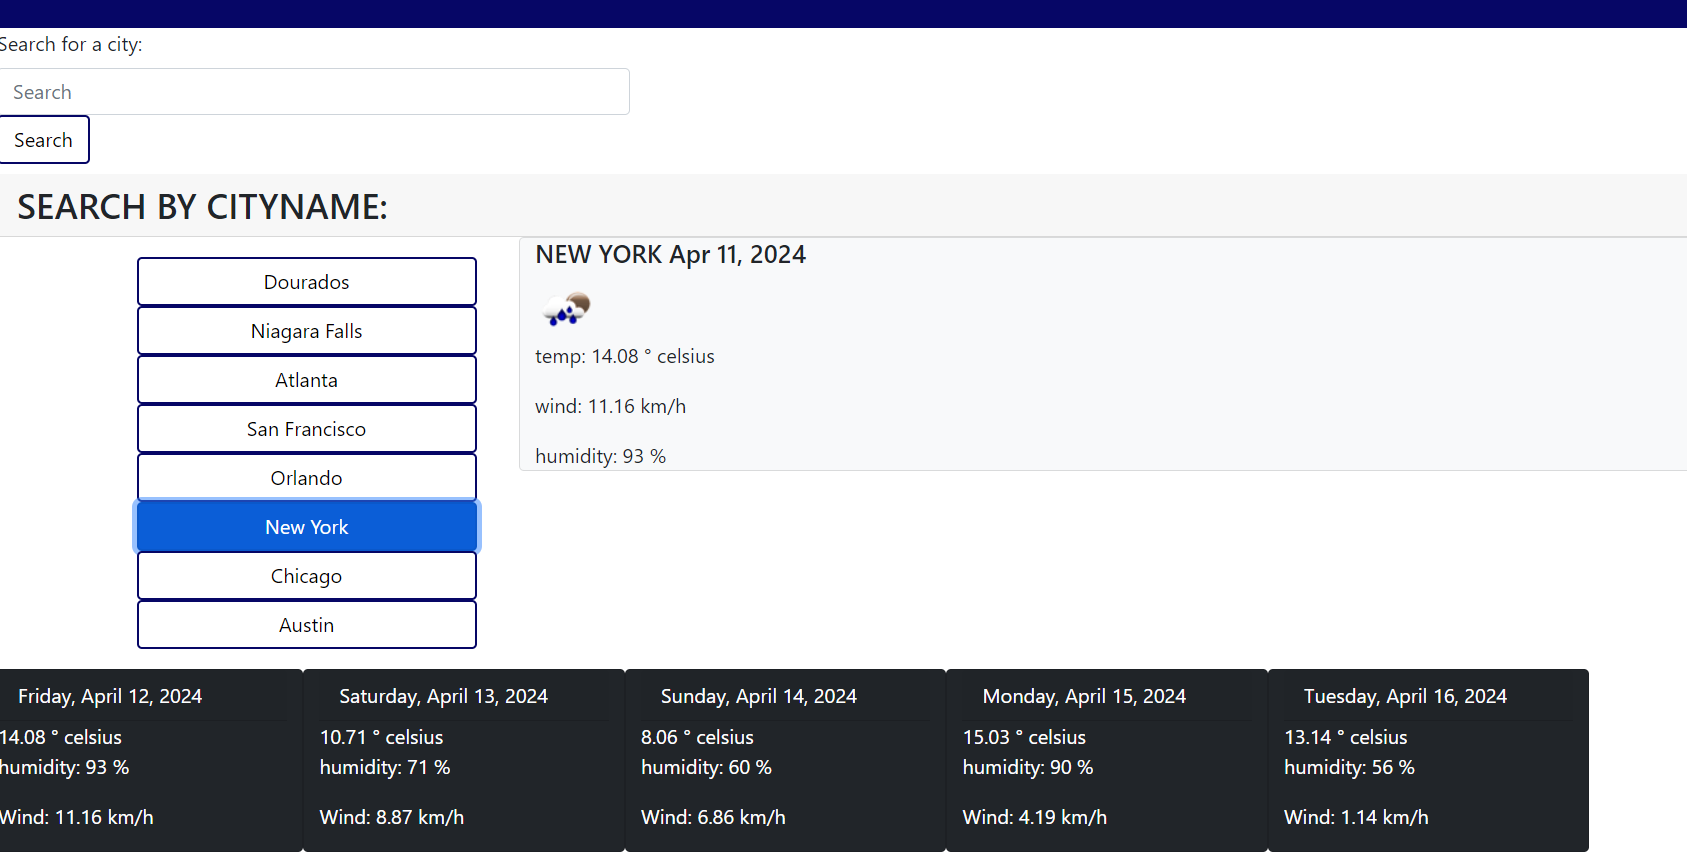
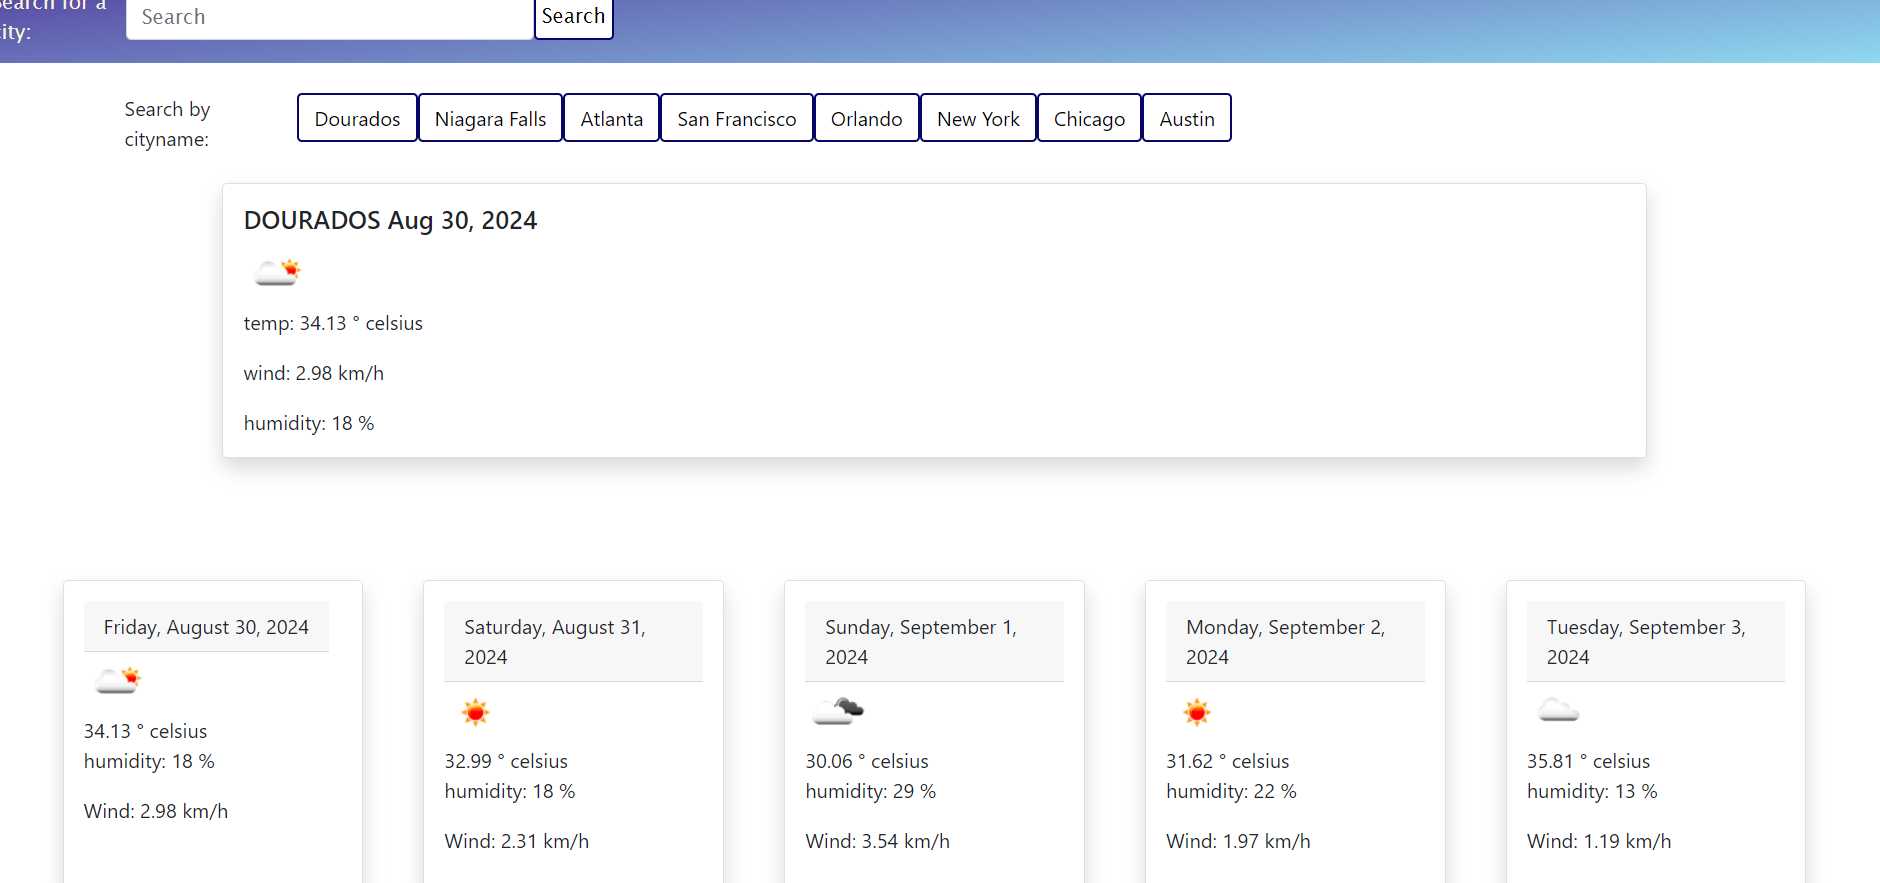
adjustments

diff --git a/index.html b/index.html
@@ -3,7 +3,7 @@
 <head>
     <meta charset="UTF-8">
     <meta name="viewport" content="width=device-width, initial-scale=1.0">
-    <title>Farias Weather</title>
+    <title>MyWeather</title>
     <link rel="stylesheet" href="https://code.jquery.com/ui/1.12.1/themes/base/jquery-ui.css" />
     <link href="https://fonts.googleapis.com/css?family=IBM+Plex+Sans:400,400i,700&display=swap" rel="stylesheet">
     <link href="https://cdn.jsdelivr.net/npm/bootstrap@5.1.3/dist/css/bootstrap.min.css" rel="stylesheet" integrity="sha384-1BmE4kWBq78iYhFldvKuhfTAU6auU8tT94WrHftjDbrCEXSU1oBoqyl2QvZ6jIW3" crossorigin="anonymous">
@@ -15,35 +15,41 @@
   ></script>
 
 </head>
-<header class=".bg-gradient">FARIAS Weather</header>
-
 <body>
- 
-        Search for a city:
-    <form class="form col-4 my-2" id="form" >
-        <input class="form-control mr-sm-2" type="search" placeholder="Search" aria-label="Search" id ="cityname">
-        <button class="btn btn-primary" type="submit" >Search</button>
-    </form>
-    <h3 class="card-header text-uppercase">Search by cityname:</h3>
-<div class="container hero"> 
-    <div id="city-btn" class="card-body list-group col-3" style="max-width: 18rem;">
-        <button citybtn="dourados,br" class="btn btn-primary">Dourados</button>
-        <button citybtn="niagara falls,ca" class="btn btn-primary">Niagara Falls</button>
-        <button citybtn="atlanta,us" class="btn btn-primary">Atlanta</button>
-        <button citybtn="san francisco,us" class="btn btn-primary">San Francisco</button>
-        <button citybtn="orlando,us" class="btn btn-primary">Orlando</button>
-        <button citybtn="new york,us" class="btn btn-primary">New York</button>
-        <button citybtn="chicago,us" class="btn btn-primary">Chicago</button>
-        <button citybtn="austin,us" class="btn btn-primary">Austin</button>
-    </div> 
+<header>
+    <h1 class ="title ">MyWeather</h1>
+<div class ="col-4 my-2 hero">
+    Search for a city:
+<form class="form container " id="form" >
+    <input class="form-control mr-sm-2" type="search" placeholder="Search" aria-label="Search" id ="cityname">
+    <button class="btn btn-outline-dark form " type="submit" >Search</button>
+</form>
+</div>
 
-    <div class="card text-dark bg-light mb-3 container col-9" id ="citycontainer" >
-          <h5 class="card-title" id="citychosen">  <span id="todaydate"> </span></h5>
-          <div id="icon"> <img id="wicon" src="" alt="Weather icon"></div>
+</header>
+<div id="city-btn" class ="container my-4">
+    Search by cityname:
+    <div class="container">
+    <button citybtn="dourados,br" class="btn btn-outline-dark">Dourados</button>
+    <button citybtn="niagara falls,ca" class="btn btn-outline-dark">Niagara Falls</button>
+        <button citybtn="atlanta,us" class="btn btn-outline-dark">Atlanta</button>
+        <button citybtn="san francisco,us" class="btn btn-outline-dark">San Francisco</button>
+        <button citybtn="orlando,us" class="btn btn-outline-dark">Orlando</button>
+        <button citybtn="new york,us" class="btn btn-outline-dark">New York</button>
+        <button citybtn="chicago,us" class="btn btn-outline-dark">Chicago</button>
+        <button citybtn="austin,us" class="btn btn-outline-dark">Austin</button>
+    </div>
+</div>
+
+    <div class="container card text-dark bg-light mb-3 col-9 shadow p-3 mb-5 bg-white rounded" id ="citycontainer" >
+          <h5 class="card-title" id="citychosen"> </h5>
+          <span id="todaydate"> </span>
+          <div id="icon"> <img id="wicon" src="http://openweathermap.org/img/w/50d.png" alt="Weather icon"></div>
           <p class="card-text">temp: <span id="tempinfo"></span></p>
           <p class="card-text">wind: <span id="windinfo"></span></p>
           <p class="card-text">humidity: <span id="humidityinfo"></span> </p>
     </div>
+
 </div>
      <div class="row five-days" id="nextdays"> </div>
     

diff --git a/assets/script.js b/assets/script.js
@@ -1,5 +1,5 @@
 const searchform = document.querySelector('#form');
-const searchI = document.querySelector('#cityname');
+const searchCity= document.querySelector('#cityname');
 const cityContainerEl = document.querySelector('#citycontainer');
 const nextDays = document.querySelector('#nextdays');
 const btnEL = document.querySelector('#city-btn');
@@ -11,23 +11,24 @@ const chosenCity = document.querySelector('#citychosen');
 const today = dayjs();
 
 
+const emptyContent = function (){
 
+  windInfo.textContent = '';
+  tempInfo.textContent = '';
+  humidityInfo.textContent = '';
+  chosenCity.textContent = '';
+  datetoday.textContent = '';
+  $('#nextdays').empty();
+}
 
 const submitSearch = function (event) {
     event.preventDefault();
   
-    const cityName = searchI.value.trim();
+    const cityName = searchCity.value.trim();
   
     if (cityName) {
       getCityInfo(cityName);
-  
-      //cityContainerEl.textContent = '';
-      //searchI.value = '';
-      windInfo.textContent = '';
-      tempInfo.textContent = '';
-      humidityInfo.textContent = '';
-      chosenCity.textContent = '';
-      datetoday.textContent = '';
+  emptyContent();
     } else {
       alert('Please enter a valid City');
     }
@@ -38,13 +39,7 @@ const submitSearch = function (event) {
   
     if (citybtn) {
       featuredCities(citybtn);
-
-      windInfo.textContent = '';
-      tempInfo.textContent = '';
-      humidityInfo.textContent = '';
-      chosenCity.textContent = '';
-      datetoday.textContent = '';
-      $('#nextdays').empty();
+      emptyContent();
     }
   };
 
@@ -148,9 +143,10 @@ for (let i = 0; i < 40 ; i+=8) {
     const temp = `${dataO.list[i].main.temp}`;
     const unixTime =`${dataO.list[i].dt}`
     const date = dayjs.unix(unixTime).format('dddd, MMMM D, YYYY');
+    const icon =`${dataO.list[i].weather[0].icon}`
 
     const cardDiv = $('<div>');
-    cardDiv.addClass('card text-white bg-dark d-flex mb-3 col-2');
+    cardDiv.addClass('card container d-flex mb-3 col-2 shadow p-3 mb-5 bg-white rounded');
     cardDiv.css('max-width', '18rem');
     
     const cardEl = $('<div>');
@@ -159,7 +155,15 @@ for (let i = 0; i < 40 ; i+=8) {
         .addClass('card-header')
         .text(date);
     dateHeader.appendTo(cardEl);
+    const iconDiv = $('<div>').attr('id', 'icon');
+      const iconImg = $('<img>')
+      .attr('id', 'wicon')
+      .attr('src', `http://openweathermap.org/img/w/${icon}.png`) // Replace '50d.png' with the actual icon code
+      .attr('alt', 'Weather icon');
 
+      iconDiv.append(iconImg);
+      cardEl.append(iconDiv);
+      
       const cardtext = $('<p>');
       cardtext.addClass('card-text');
       cardtext.text(`${temp} ° celsius`);
@@ -172,6 +176,8 @@ for (let i = 0; i < 40 ; i+=8) {
       const createp2 = $('<p>');
       createp2.text(`Wind: ${wind} km/h`);
       createp2.appendTo(cardtext);
+
+  
 
       $('#nextdays').append(cardDiv);
 

diff --git a/assets/style.css b/assets/style.css
@@ -1,18 +1,28 @@
-header{ 
+header{
+    padding: 5px;
+    background-image: linear-gradient(to bottom right, rgb(64, 7, 129), rgb(143, 217, 240));    
+    color: beige;
+    font-family:'Lucida Sans', 'Lucida Sans Regular', 'Lucida Grande', 'Lucida Sans Unicode', Geneva, Verdana, sans-serif}
+
+.body{
+    display: flex;
+    padding: 15px;
+}
+.title{
     display: flex;
     justify-content: end;
-    padding: 10px;
-    background-color: rgb(6, 6, 102);    
-    color: beige;
-    font-size:60px;
-    font-family:Cambria, Cochin, Georgia, Times, 'Times New Roman', serif;}
+    padding: 15px;
+
+}
 
 .container {
-    display:inline-block;
+    display:flex;
     justify-content: flex-start;
     align-items:flex-start;
 }
-
+.form{
+    padding: 5px;
+}
 .btn{  
     
     background-color: white;
@@ -23,4 +33,8 @@ header{
 .hero{
     display: flex;
     align-content: flex-start;
+}
+
+.five-days{
+padding: 50px;
 }

diff --git a/README.md b/README.md
@@ -1,8 +1,10 @@
 # Farias weather
-
+  ![MIT](https://img.shields.io/static/v1?label=License&message=MIT&color=blue)
+  
 ## Description
 
-I started creating a function to get data just by city, but then at the final, i realized that I needed the lat and lon, to get the 5 days, then I started again, it was more than 20 hours of work, I feel proud when each test works, the first button its the city that a born and the second the city that I live.
+Weather application by using openWeather API, the Technologies were basic HTML,
+CSS and JavaScript, the first button its the city that a born and the second the city that I live.
 
 ## Usage
 You can search by a city name, it will show the today's weather, icon, temperature, wind speed and humidity and the nexts 5 days.
@@ -12,7 +14,7 @@ You can search by a city name, it will show the today's weather, icon, temperatu
     
 
 ## Credits
-I had some help from the lectures, xpert learning, MDN web and google.
+I had some help from bootCamp lectures, xpert learning, MDN web and google.
 
 
 the icon code:
